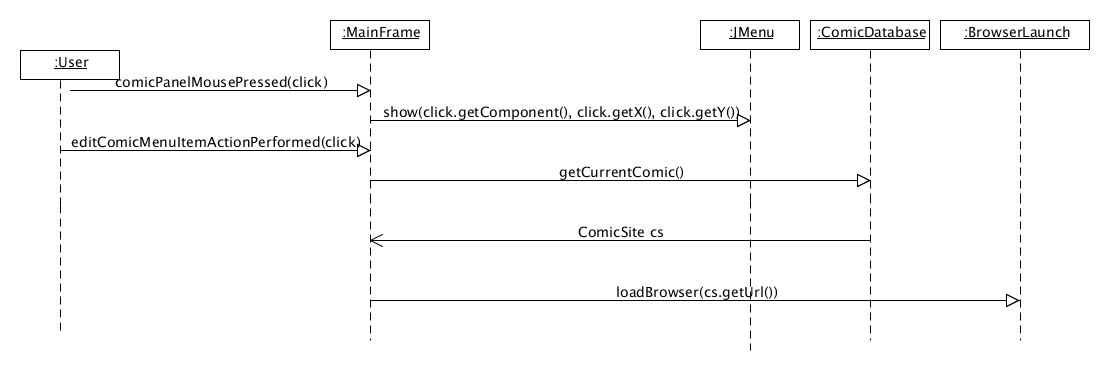
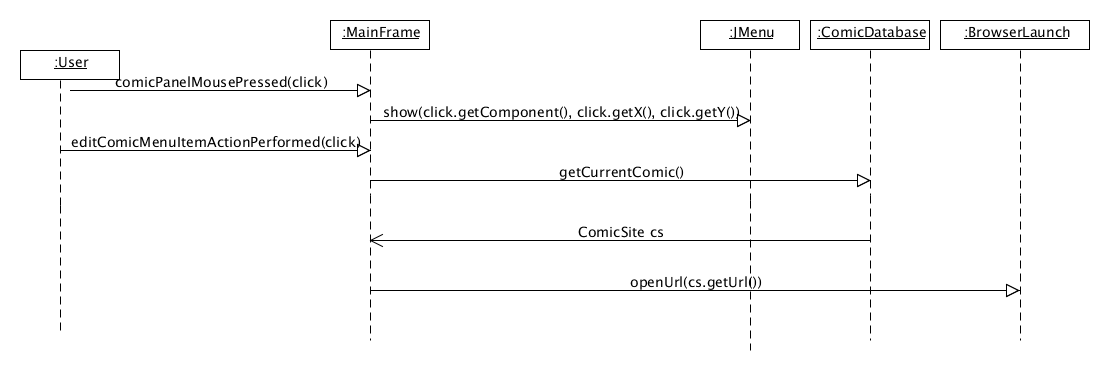
Made BrowserLaunch a third-party class and updated sequence diagram to reflect.

Changed region(s): [[0.5514, 0.7077, 0.7045, 0.7692], [0.8883, 0.7385, 0.9189, 0.8]]

diff --git a/Code/BACON/BrowserLaunch.java b/Code/BACON/BrowserLaunch.java
@@ -1,13 +1,14 @@
 /**
+ * Modified from Dem Pilafian's Bare Bones Browser Launch v3.0, available in the public
+ * domain at http://www.centerkey.com/java/browser/BareBonesBrowserLaunch.java.
+ *
  * BACON (sdd.bacon@gmail.com)
  *
- * BrowserLaunch - This class displays the URL for the currently displayed webcomic
+ * BrowserLaunch - Launches the user's preferred browser.
  *
- * Copyright (c) 2010
+ * Modifications copyright (c) 2010
  * @author David Pizzuto, Seamus Reynolds, Matt Schoen, Michael Stark
  * All Rights Reserved
- *
- * @version 0.1, 04/02/10
  *
  * http://code.google.com/p/bacon/
  *
@@ -25,14 +26,69 @@
  * along with this program.  If not, see <http://www.gnu.org/licenses/>.
  */
 
- package BACON;
+package BACON;
 
- import java.awt.Desktop;
- import java.io.IOException;
- import java.net.URI;
+import java.io.IOException;
+import javax.swing.JOptionPane;
+import java.util.Arrays;
 
- public class BrowserLaunch {
-     public static void loadBrowser(String path) throws IOException {
-        Desktop.getDesktop().browse(URI.create(path));
-     }
- }
+public class BrowserLaunch {
+
+    private static final String[] browsers = { "google-chrome", "firefox", "opera",
+        "konqueror", "epiphany", "seamonkey", "galeon", "kazehakase", "mozilla" };
+    private static final String errMsg = "Error attempting to launch web browser";
+
+    /**
+     * Opens a URL in the user's preferred browser if possible.
+     * @param url The URL to be opened
+     * @throws IOException If the browser has some sort of error. Other errors will be met with a JOptionPane.
+     */
+    public static void openUrl(String url) throws IOException {
+        try {  // attempt to use Desktop library from JDK 1.6+ (even if on 1.5)
+            Class<?> d = Class.forName("java.awt.Desktop");
+            d.getDeclaredMethod("browse", new Class[] {java.net.URI.class}).invoke(
+                d.getDeclaredMethod("getDesktop").invoke(null),
+                    new Object[] {java.net.URI.create(url)});
+            // above code mimics:
+            //   java.awt.Desktop.getDesktop().browse(java.net.URI.create(url));
+            // through the use of reflection
+        } catch (ClassNotFoundException e) {  // library not available or failed
+            launchPreferredBrowser(url);
+        } catch (Exception e) {
+            SwingInput.displayErrorMessage(e.getMessage());
+        }
+    }
+
+    /**
+     * Hunts down and launches the user's preferred browser by combing through the OS.
+     * @param url The URL to be opened.
+     */
+    private static void launchPreferredBrowser(String url) {
+        String osName = System.getProperty("os.name");
+        try {
+            if (osName.startsWith("Mac OS")) {
+            Class.forName("com.apple.eio.FileManager").getDeclaredMethod(
+                "openURL", new Class[] {String.class}).invoke(null,
+                new Object[] {url});
+            } else if (osName.startsWith("Windows")) {
+               Runtime.getRuntime().exec("rundll32 url.dll,FileProtocolHandler " + url);
+            } else { // assume Unix or Linux
+                boolean found = false;
+                for (String browser : browsers) {
+                    if (!found) {
+                        found = Runtime.getRuntime().exec(
+                            new String[] {"which", browser}).waitFor() == 0;
+                        if (found) {
+                            Runtime.getRuntime().exec(new String[] {browser, url});
+                        }
+                    }
+                }
+                if (!found) {
+                    throw new Exception(Arrays.toString(browsers));
+                }
+            }
+        } catch (Exception e) {
+            SwingInput.displayErrorMessage(e.getMessage());
+        }
+    }
+}

diff --git a/Code/BACON/MainFrame.java b/Code/BACON/MainFrame.java
@@ -310,7 +310,7 @@ public class MainFrame extends javax.swing.JFrame {
         ComicSite cs = database.getCurrentComic();
         if(cs != null) {
             try {
-                BrowserLaunch.loadBrowser(cs.getUrl());
+                BrowserLaunch.openUrl(cs.getUrl());
             } catch (IOException e) {
                 SwingInput.displayErrorMessage("Could not load website: " + e.getMessage());
             }
@@ -366,7 +366,7 @@ public class MainFrame extends javax.swing.JFrame {
             comicLabel.setIcon(null);
         }
     }
-    
+
     /**
      * Displays the current comic in the database.
      */
